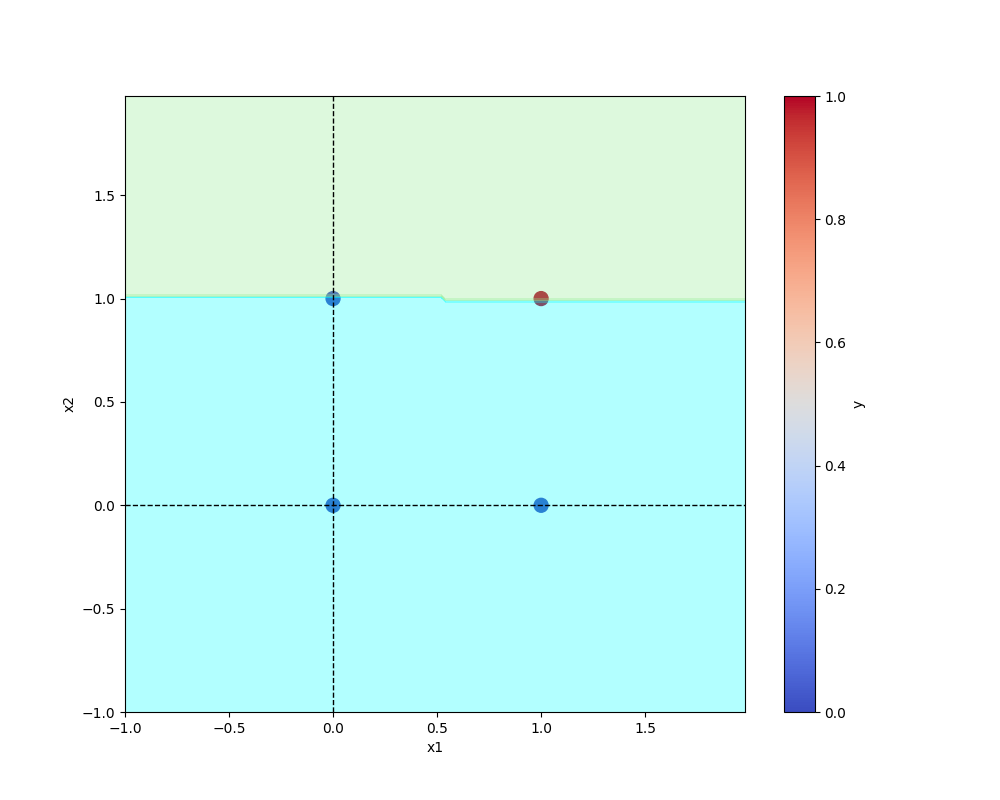
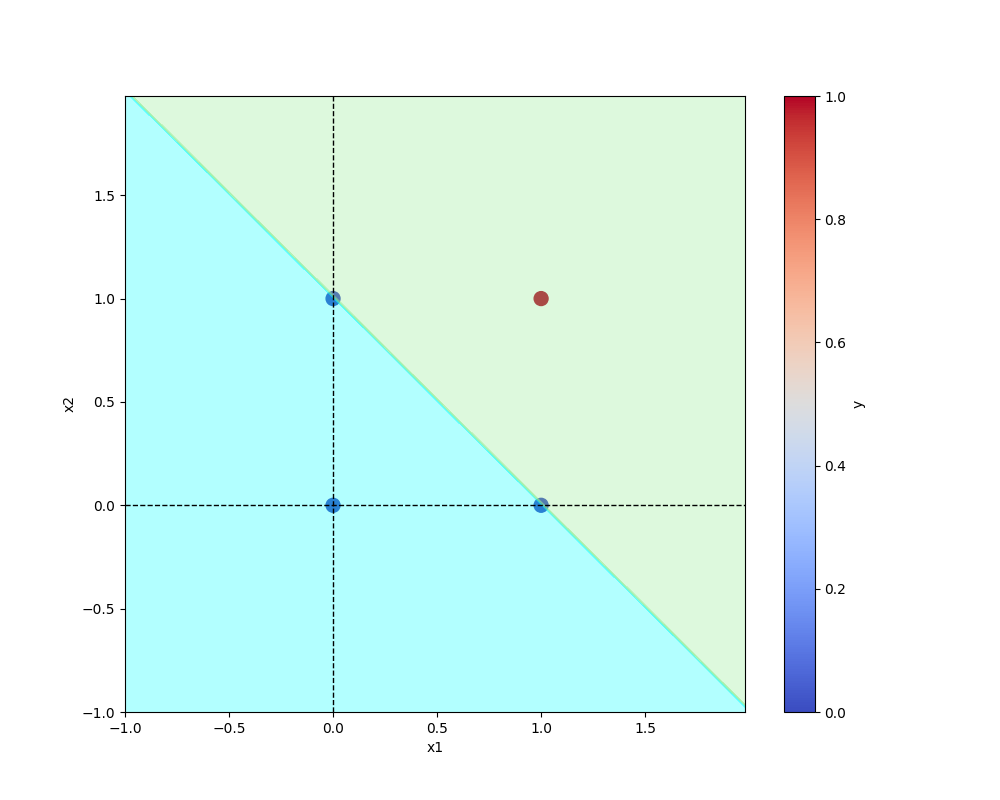
created main.py file containing or,and,xor inputs

Changed region(s): [[0.124, 0.125, 0.744, 0.875]]

diff --git a/main.py b/main.py
@@ -14,11 +14,26 @@ def main(data,modelName,plotName,eta,epochs):
     save_plot(df, model, filename = plotName)
 
 if __name__ == "__main__":
+    ETA = 0.1
+    EPOCHS = 10
+
     OR = {
         "x1": [0,0,1,1],
         "x2": [0,1,0,1],
         "y" : [0,1,1,1]
     }
-    ETA = 0.1
-    EPOCHS = 10
     main(data=OR, modelName="or.model",plotName="or.png", eta=ETA, epochs=EPOCHS)
+
+    AND = {
+        "x1": [0,0,1,1],
+        "x2": [0,1,0,1],
+        "y" : [0,0,0,1]
+    }
+    main(data=AND, modelName="and.model",plotName="and.png", eta=ETA, epochs=EPOCHS)
+
+    XOR = {
+        "x1": [0,0,1,1],
+        "x2": [0,1,0,1],
+        "y" : [0,1,1,0]
+    }
+    main(data=XOR, modelName="xor.model",plotName="xor.png", eta=ETA, epochs=EPOCHS)
